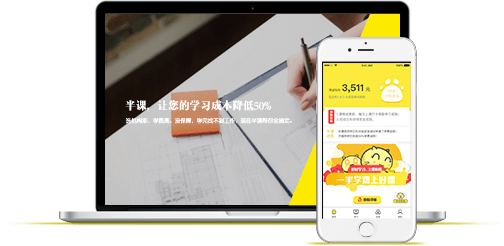
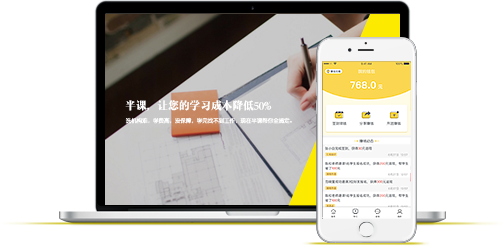
fix mobile page img

Changed region(s): [[0.625, 0.2276, 0.8333, 0.8821]]

diff --git a/app/mobile/style/less/home.less b/app/mobile/style/less/home.less
@@ -49,20 +49,20 @@ img {
           .box-img{
             display: inline-block;
             background: @hAddress;
-            background-size: 483px*0.7 340px*0.7;
+            background-size: 477px*0.7 341px*0.7;
             .size(57px,57px);
             border-radius: 57px;
             &.org {
-              background-position: -7px -5px;
+              background-position: -5px 2px;
             }
             &.price {
-              background-position: -67px -5px;
+              background-position: -70px 2px;
             }
             &.service {
-              background-position: -131px -5px;
+              background-position: -133px 2px;
             }
             &.guarantee {
-              background-position: -196px -4px;
+              background-position: -193px 2px;
             }
           }
         }
@@ -74,10 +74,12 @@ img {
     margin-bottom: 50px;
     text-align: center;
     > span {
-      .size(290px,315px);
+      @h:485px*0.5;
+      @w:486px*0.5;
+      .size(@h,@w);
       display: inline-block;
       background: url("../../mobile/img/home/bg_3.png") no-repeat;
-      background-size: 478px*0.6 530px*0.6;
+      background-size: @h @w;
     }
   }
   .home-fourth {
@@ -128,7 +130,7 @@ img {
       margin: 45px 0px 30px 45px;
       .size(47px,27px);
       display: inline-block;
-      background: @hAddress -376px -24px;
+      background: @hAddress -370px -24px;
     }
     .fifth-img {
       padding-bottom: 20px;

diff --git a/app/mobile/style/css/index.css b/app/mobile/style/css/index.css
@@ -429,13 +429,13 @@ img {
   background-position: -5px 2px;
 }
 .home-wrapper .home-second .second-box-info .box-info .box-info-li .box-img.price {
-  background-position: -70px 2px;
+  background-position: -67px -2px;
 }
 .home-wrapper .home-second .second-box-info .box-info .box-info-li .box-img.service {
-  background-position: -133px 2px;
+  background-position: -131px -2px;
 }
 .home-wrapper .home-second .second-box-info .box-info .box-info-li .box-img.guarantee {
-  background-position: -193px 2px;
+  background-position: -196px -2px;
 }
 .home-wrapper .home-third {
   margin-top: 45px;

diff --git a/app/views/include/footer.html b/app/views/include/footer.html
@@ -46,7 +46,7 @@
         </p>
 
         <p class="address">
-            <span>公司地址：&nbsp武汉市&nbsp武昌区&nbsp武珞路456号中建三局写字楼#高层3207</span>
+            <span>公司地址：&nbsp武汉市&nbsp武昌区&nbsp武珞路456号中建三局写字楼3207室</span>
         </p>
         <p class="license">
             <span>Copyright &copy; 2014-{{year}}</span>

diff --git a/app/mobile/views/include/footer.html b/app/mobile/views/include/footer.html
@@ -45,7 +45,7 @@
       </div>
 
       <p class="address">
-         <span>公司地址：&nbsp武汉市&nbsp武昌区&nbsp武珞路456号中建三局写字楼#高层3207</span>
+         <span>公司地址：&nbsp武汉市&nbsp武昌区&nbsp武珞路456号中建三局写字楼3207室</span>
       </p>
       <p class="license">
          <span>Copyright &copy;2014-{{year}}</span>
